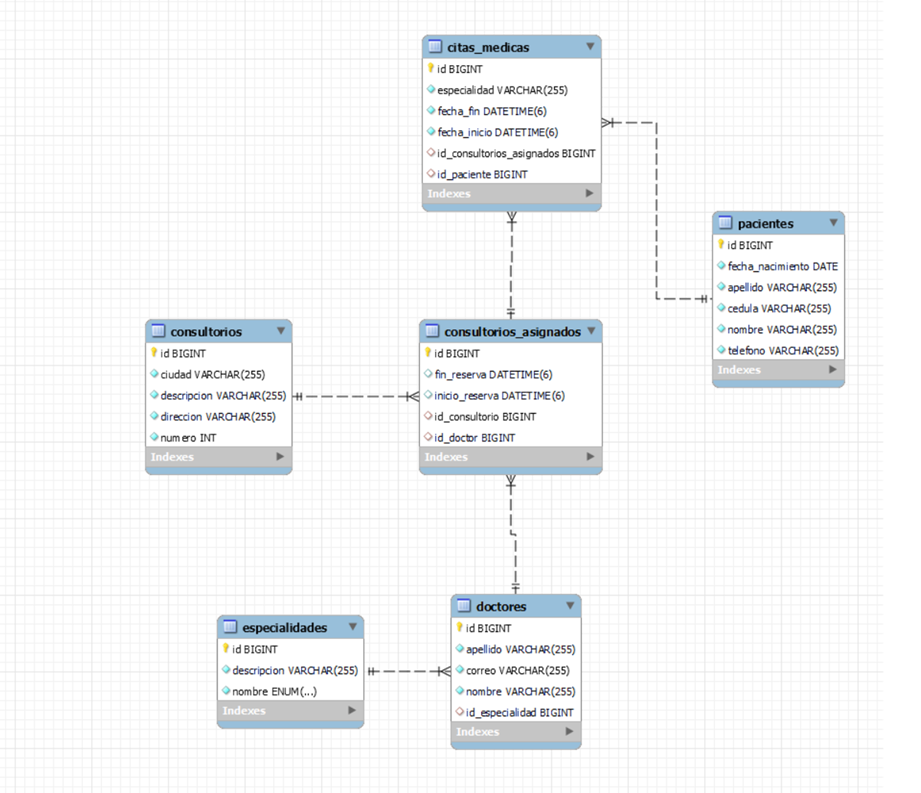
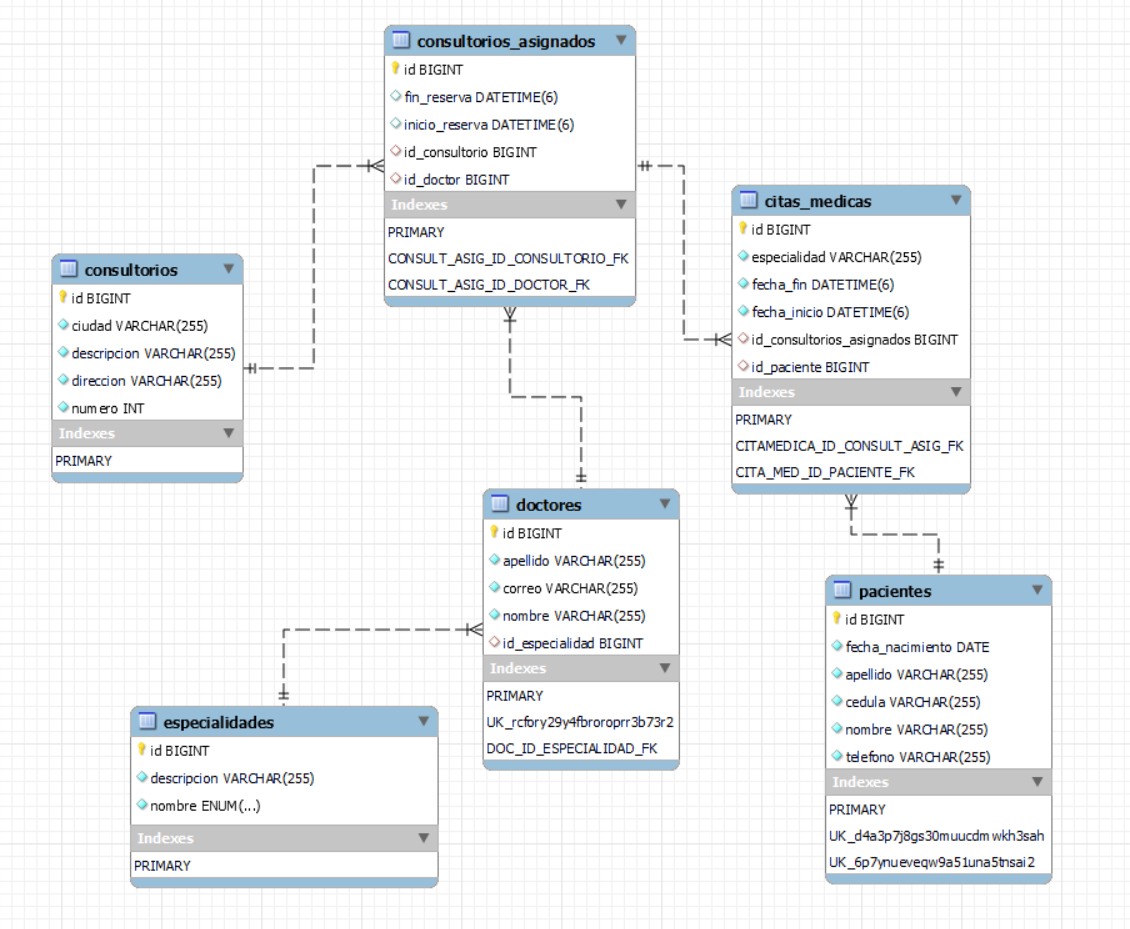
mongoimg

diff --git a/README.md b/README.md
@@ -11,8 +11,7 @@ You can clone this repo as starter project for your Express, MongoDB API server
 ## Data Model 🔍
     Data model based on a relational model and adapted to mongoDb.
         ![Relational Data Model](/assets/image.png)
-
-
+        ![Mongo](/assets/immageMongo.png)
 ## Tech Stack 💻
 
 
@@ -31,8 +30,7 @@ You can clone this repo as starter project for your Express, MongoDB API server
 
 
 ```bash
- git clone https://github.com/CristiansArevalom/ApiRestMedicalCareTypescript.git
- cd citas_medicas_bknd
+ git clone https://github.com/CristiansArevalom/backend_medical_care.git
 ```
 
 
